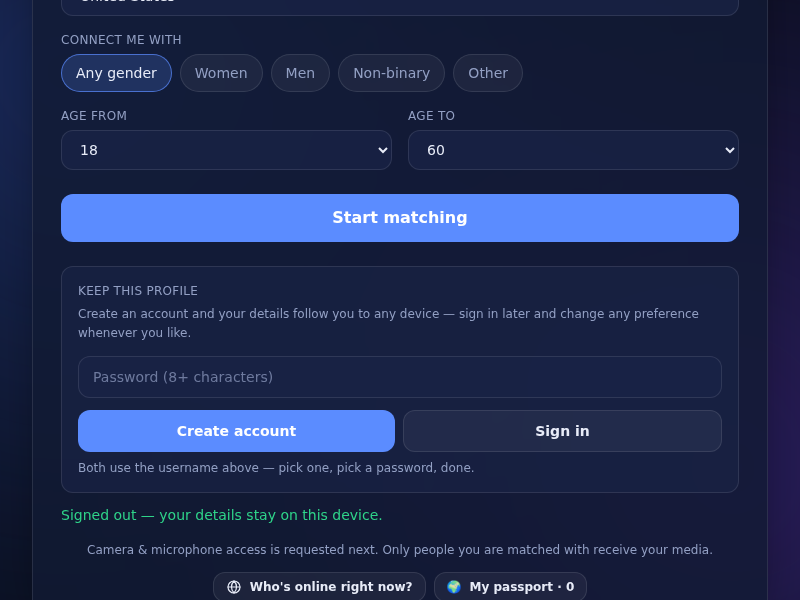
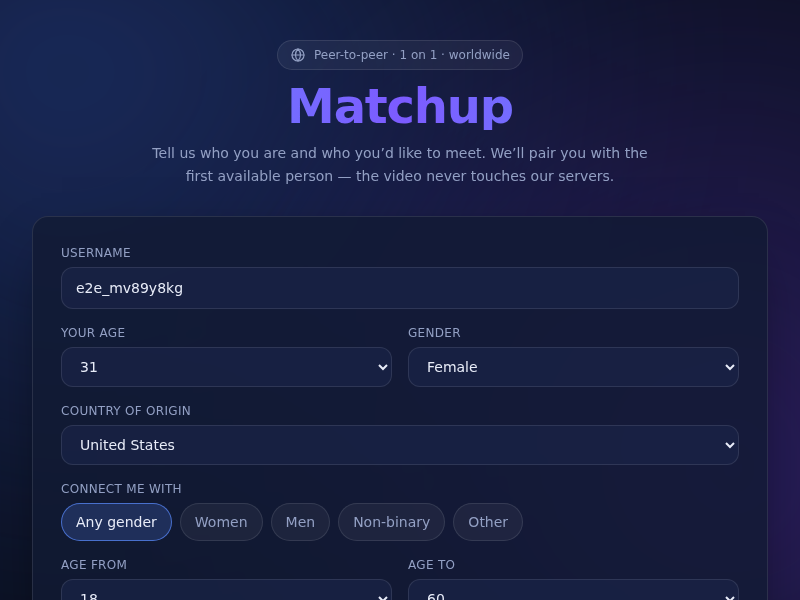
Reject malformed ICE URLs so one bad value cannot kill every call
A corrupted TURN_URLS line (turn-up.sh once wrote a failed proxy response
into server/.env) made Chromium reject the entire RTCConfiguration —
`new RTCPeerConnection()` threw "ICE server parsing failed: Invalid
hostname format" and video chat failed app-wide, on every screen. Caught
by e2e, which went from 14/21 to 43/43 after the fix.

- iceConfig.js: strict stun/turn URL syntax check on TURN_URLS and
  TURN_URLS_LOCAL, plus an authoritative sanitize before /api/ice responds;
  warnings are now per distinct message
- client iceServers.ts: same syntax check before handing the list to the
  browser; peer.ts: construction falls back to STUN-only instead of dying
- turn-up.sh: refuse non-IP/hostname text from the IP-echo endpoints
  before it can reach server/.env

diff --git a/server/src/iceConfig.js b/server/src/iceConfig.js
@@ -117,12 +117,60 @@ function turnHosts(servers) {
 
 let cached = null; // { iceServers, expiresAt, source }
 let inflight = null;
-let warned = false;
+/**
+ * One warning per *distinct* message (not per process): a malformed TURN URL
+ * and a "running STUN-only" notice can both be worth printing on the same
+ * boot, and operators need the full picture to debug the ICE path.
+ */
+const warnedMessages = new Set();
 
 function warnOnce(message) {
-  if (warned) return;
-  warned = true;
+  if (warnedMessages.has(message)) return;
+  warnedMessages.add(message);
   console.warn(`[ice] ${message}`);
+}
+
+/**
+ * Strict syntax check for a `stun`/`stuns`/`turn`/`turns` URL.
+ *
+ * One malformed TURN entry is catastrophic: browsers reject the **entire**
+ * RTCConfiguration with `ICE server parsing failed: Invalid hostname format`,
+ * so `new RTCPeerConnection()` throws and every call in the app dies — not
+ * just the relay path. This is not theoretical: `scripts/turn-up.sh` once
+ * wrote a failed proxy response (`turn:upstream connect error …`) into
+ * `TURN_URLS` in `server/.env`, and video chat broke on every screen until
+ * the value was caught here.
+ */
+const ICE_URL_RE =
+  /^(stun|stuns|turn|turns):(\[[0-9a-fA-F:.]+\]|[A-Za-z0-9](?:[A-Za-z0-9._-]*[A-Za-z0-9])?)(:\d{1,5})?(\?\S*)?$/;
+
+function isWellFormedIceUrl(url) {
+  return ICE_URL_RE.test(String(url));
+}
+
+/** Filter step for env lists: valid URLs pass, garbage is dropped loudly. */
+function requireWellFormed(url) {
+  if (isWellFormedIceUrl(url)) return true;
+  warnOnce(`discarding malformed ICE URL (check TURN_URLS in server/.env): ${JSON.stringify(String(url))}`);
+  return false;
+}
+
+/**
+ * Last stop before a response leaves the server: drop any ICE server whose
+ * URL would make the browser throw. The environment lists are already
+ * filtered above, so this mainly guards third-party payloads (Twilio /
+ * Cloudflare) and future callers.
+ */
+function sanitizeIceServers(servers) {
+  if (!Array.isArray(servers)) return [];
+  const out = [];
+  for (const server of servers) {
+    if (!server) continue;
+    const urls = Array.isArray(server.urls) ? server.urls : [server.urls];
+    if (urls.length && urls.every((u) => isWellFormedIceUrl(u))) out.push(server);
+    else warnOnce(`discarding malformed ICE server entry: ${JSON.stringify(server.urls)}`);
+  }
+  return out;
 }
 
 function normalizeServer(server) {
@@ -219,7 +267,7 @@ function configuredTurnUrls() {
   const list = urls
     .split(',')
     .map((u) => u.trim())
-    .filter(Boolean);
+    .filter((u) => u && requireWellFormed(u));
   return list.length ? list : null;
 }
 
@@ -237,7 +285,7 @@ function configuredLocalTurnUrls() {
   return urls
     .split(',')
     .map((u) => u.trim())
-    .filter(Boolean);
+    .filter((u) => u && requireWellFormed(u));
 }
 
 /** Loopback or RFC1918/ULA ⇒ the caller is us or someone on this LAN. */
@@ -365,18 +413,25 @@ async function resolveIce() {
  */
 async function getIceConfig({ local = false } = {}) {
   const base = await resolveIce();
+  // Authoritative filter: whatever came back (env, Twilio, Cloudflare) must
+  // be safe to hand to `new RTCPeerConnection()` or *every* call breaks.
+  const cleaned = sanitizeIceServers(base.iceServers);
+  const sanitized =
+    cleaned.length > 0
+      ? { ...base, iceServers: cleaned }
+      : stunOnly('every configured ICE URL was malformed');
   const localUrls = configuredLocalTurnUrls();
-  if (!local || !localUrls.length) return base;
+  if (!local || !localUrls.length) return sanitized;
 
-  const turn = (base.iceServers || []).find((server) => {
+  const turn = (sanitized.iceServers || []).find((server) => {
     const urls = Array.isArray(server.urls) ? server.urls : [server.urls];
     return urls.some((u) => String(u).startsWith('turn')) && server.username && server.credential;
   });
-  if (!turn) return base; // STUN-only — nothing to duplicate
+  if (!turn) return sanitized; // STUN-only — nothing to duplicate
 
   return {
-    ...base,
-    iceServers: [{ urls: localUrls, username: turn.username, credential: turn.credential }, ...base.iceServers],
+    ...sanitized,
+    iceServers: [{ urls: localUrls, username: turn.username, credential: turn.credential }, ...sanitized.iceServers],
   };
 }
 
@@ -417,7 +472,7 @@ function describeIce() {
 
 function resetIceCache() {
   cached = null;
-  warned = false;
+  warnedMessages.clear();
 }
 
 module.exports = {

diff --git a/client/src/lib/peer.ts b/client/src/lib/peer.ts
@@ -1,4 +1,5 @@
 import type { CallState, NetworkStats, PathType, SignalMessage } from '../types';
+import { FALLBACK_ICE_SERVERS } from './iceServers';
 
 type OutgoingSignal = Omit<SignalMessage, 'roomId'>;
 
@@ -79,17 +80,7 @@ export class Peer {
   constructor(private readonly opts: PeerOptions) {
     this.polite = !opts.initiator;
 
-    this.pc = new RTCPeerConnection({
-      iceServers: opts.iceServers,
-      // `'relay'` (from `?relay=1`) forces every candidate through TURN — used
-      // to verify the relay path end to end without needing a strict NAT.
-      iceTransportPolicy: opts.iceTransportPolicy ?? 'all',
-      // Gather a few candidates in parallel — trades a little bandwidth for a
-      // noticeably shorter time-to-first-frame on lossy links.
-      iceCandidatePoolSize: 4,
-      bundlePolicy: 'max-bundle',
-      rtcpMuxPolicy: 'require',
-    });
+    this.pc = this.createPeerConnection();
 
     for (const track of opts.localStream.getTracks()) {
       // Only attach live tracks; a camera the user turned off still has
@@ -115,6 +106,37 @@ export class Peer {
 
     this.setState('connecting');
     this.armConnectWatchdog(CONNECT_TIMEOUT_MS);
+  }
+
+  /**
+   * Build the RTCPeerConnection, degrading to STUN-only if the browser
+   * rejects the ICE config outright.
+   *
+   * `getIceConfig()` already filters malformed URLs, but a constructor throw
+   * here would fail *every* call instead of merely losing the relay path —
+   * and that exact failure has happened in production: one bad `TURN_URLS`
+   * line made `new RTCPeerConnection()` throw
+   * `SyntaxError: ICE server parsing failed: Invalid hostname format` and
+   * video chat died app-wide until the value was caught.
+   */
+  private createPeerConnection(): RTCPeerConnection {
+    const config: RTCConfiguration = {
+      iceServers: this.opts.iceServers,
+      // `'relay'` (from `?relay=1`) forces every candidate through TURN — used
+      // to verify the relay path end to end without needing a strict NAT.
+      iceTransportPolicy: this.opts.iceTransportPolicy ?? 'all',
+      // Gather a few candidates in parallel — trades a little bandwidth for a
+      // noticeably shorter time-to-first-frame on lossy links.
+      iceCandidatePoolSize: 4,
+      bundlePolicy: 'max-bundle',
+      rtcpMuxPolicy: 'require',
+    };
+    try {
+      return new RTCPeerConnection(config);
+    } catch (err) {
+      console.warn('[peer] browser rejected the ICE config; retrying STUN-only:', err);
+      return new RTCPeerConnection({ ...config, iceServers: FALLBACK_ICE_SERVERS });
+    }
   }
 
   // ── Public API ──────────────────────────────────────────────────────────────

diff --git a/client/src/lib/iceServers.ts b/client/src/lib/iceServers.ts
@@ -54,8 +54,22 @@ export interface IceConfig {
 let cached: IceConfig | null = null;
 let inflight: Promise<IceConfig> | null = null;
 
+/**
+ * ICE URL syntax check — the client-side twin of the server's validator in
+ * `server/src/iceConfig.js`.
+ *
+ * The stakes are asymmetric: a TURN server *without credentials* merely wastes
+ * an ICE round, but one *malformed URL* makes the browser reject the whole
+ * RTCConfiguration (`SyntaxError: ICE server parsing failed: Invalid hostname
+ * format`) — `new RTCPeerConnection()` throws and the call can never start.
+ * So every URL must parse before we hand the list over.
+ */
+const ICE_URL_RE =
+  /^(stun|stuns|turn|turns):(\[[0-9a-fA-F:.]+\]|[A-Za-z0-9](?:[A-Za-z0-9._-]*[A-Za-z0-9])?)(:\d{1,5})?(\?\S*)?$/;
+
 function isUsable(server: RTCIceServer): boolean {
   const urls = Array.isArray(server.urls) ? server.urls : [server.urls];
+  if (!urls.length || !urls.every((u) => ICE_URL_RE.test(String(u)))) return false;
   const isTurn = urls.some((u) => String(u).startsWith('turn'));
   // Never hand a TURN server without credentials to RTCPeerConnection — the
   // browser would waste an ICE round trying and failing on it.
